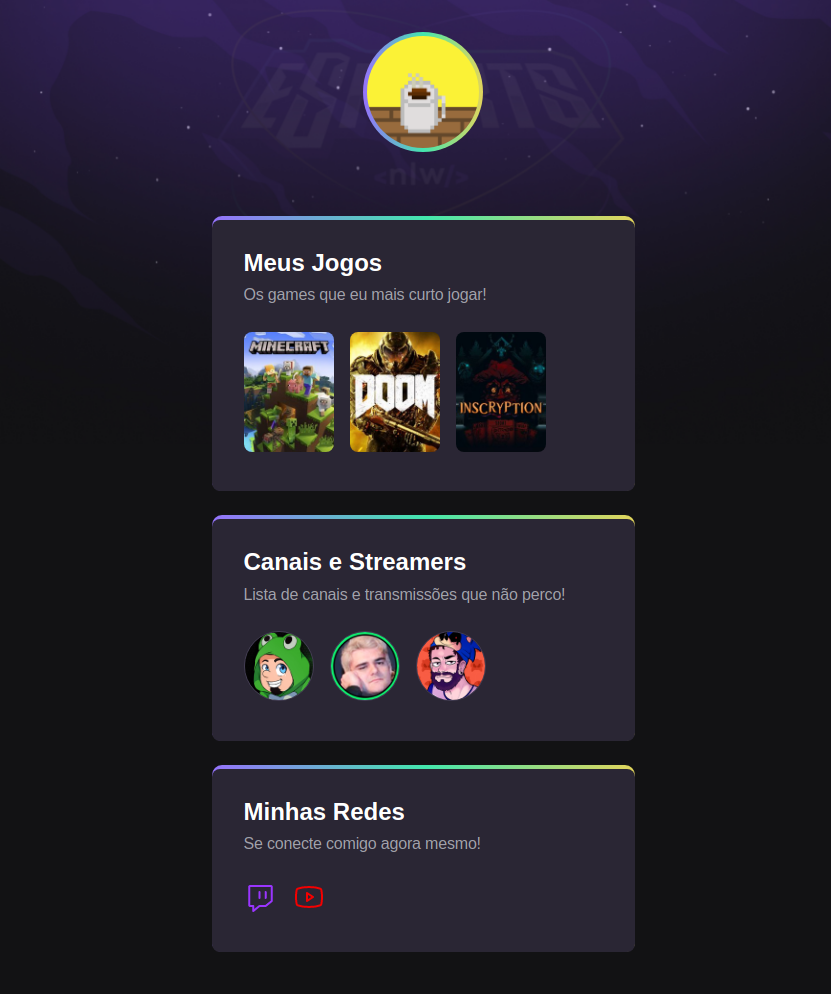
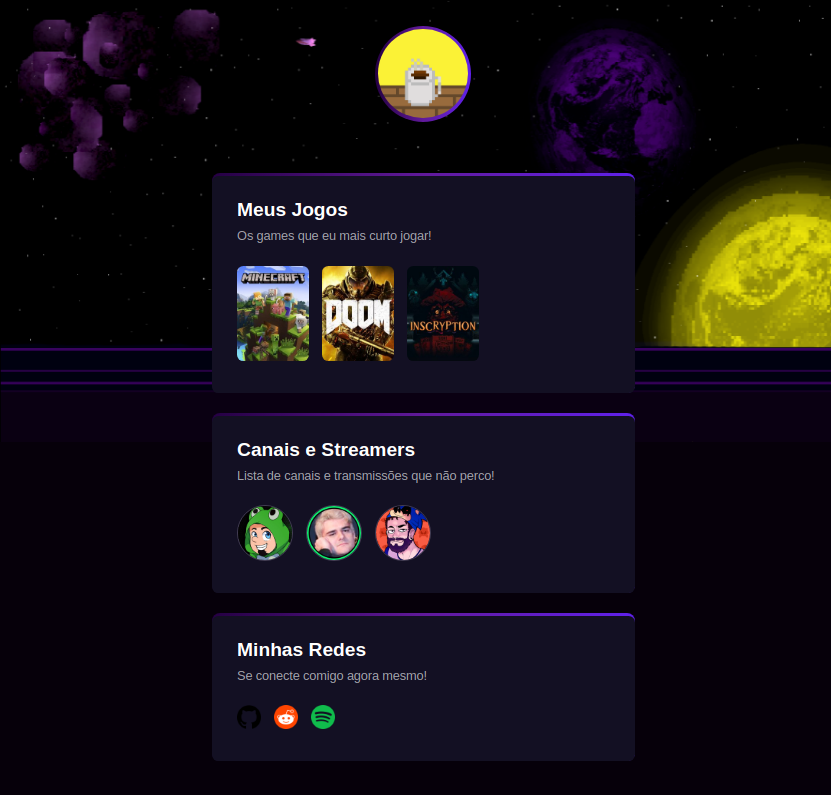
background, social networks and border-color

diff --git a/index.html b/index.html
@@ -102,22 +102,22 @@
                     <li>
                         <a
                         target="_blank"
-                        href="https://www.twitch.tv/g19g17">
-                        <svg width="33" height="32" viewBox="0 0 33 32" fill="none" xmlns="http://www.w3.org/2000/svg">
-                            <path d="M21.2824 25H15.8426C15.6011 25.0001 15.3678 25.0844 15.1852 25.2375L9.28125 30V25H6.1875C5.914 25 5.65169 24.8946 5.4583 24.7071C5.2649 24.5196 5.15625 24.2652 5.15625 24V6C5.15625 5.73478 5.2649 5.48043 5.4583 5.29289C5.65169 5.10536 5.914 5 6.1875 5H26.8125C27.086 5 27.3483 5.10536 27.5417 5.29289C27.7351 5.48043 27.8438 5.73478 27.8438 6V19.5375C27.8417 19.6832 27.8072 19.8267 27.7427 19.9583C27.6782 20.0899 27.5851 20.2065 27.4699 20.3L21.9398 24.7625C21.7572 24.9156 21.5239 24.9999 21.2824 25V25Z" stroke="#9A35FF" stroke-width="2" stroke-linecap="round" stroke-linejoin="round"/>
-                            <path d="M21.6562 11V17" stroke="#9A35FF" stroke-width="2" stroke-linecap="round" stroke-linejoin="round"/>
-                            <path d="M15.4688 11V17" stroke="#9A35FF" stroke-width="2" stroke-linecap="round" stroke-linejoin="round"/>
-                            </svg>   
+                        href="https://github.com/g19g17">
+                        <img src="assets/GithubIcon.png" alt="Icone do meu github">
                         </a>
                     </li>
                     <li>
                         <a 
                         target="_blank"
-                        href="https://www.youtube.com/channel/UCXarq1BWqDgK2KyGn2aaufw">
-                        <svg width="32" height="32" viewBox="0 0 32 32" fill="none" xmlns="http://www.w3.org/2000/svg">
-                            <path d="M20 16L14 12V20L20 16Z" stroke="#F40000" stroke-width="2" stroke-linecap="round" stroke-linejoin="round"/>
-                            <path d="M3 16C3 19.725 3.3875 21.9 3.675 23.025C3.75427 23.3302 3.90418 23.6126 4.11262 23.8493C4.32106 24.0859 4.58221 24.2703 4.875 24.3875C9.0625 25.9875 16 25.95 16 25.95C16 25.95 22.9375 25.9875 27.125 24.3875C27.4178 24.2703 27.6789 24.0859 27.8874 23.8493C28.0958 23.6126 28.2457 23.3302 28.325 23.025C28.6125 21.9 29 19.725 29 16C29 12.275 28.6125 10.1 28.325 8.975C28.2457 8.66975 28.0958 8.38741 27.8874 8.15074C27.6789 7.91407 27.4178 7.7297 27.125 7.6125C22.9375 6.0125 16 6.05 16 6.05C16 6.05 9.0625 6.0125 4.875 7.6125C4.58221 7.7297 4.32106 7.91407 4.11262 8.15074C3.90418 8.38741 3.75427 8.66975 3.675 8.975C3.3875 10.1 3 12.275 3 16Z" stroke="#F40000" stroke-width="2" stroke-linecap="round" stroke-linejoin="round"/>
-                            </svg>                            
+                        href="https://www.reddit.com/user/g19g17_H13">
+                        <img src="assets/RedditIcon.png" alt="Icone do meu reddit">                         
+                        </a>
+                    </li>
+                    <li>
+                        <a 
+                        target="_blank"
+                        href="https://open.spotify.com/user/6zgkrkgsjxpgfapad3uc294fx">
+                        <img src="assets/SpotifyIcon.png" alt="Icone do meu Spotify">                         
                         </a>
                     </li>
                     </ul>

diff --git a/style.css b/style.css
@@ -5,11 +5,11 @@
 }
 
 body {
-    background-image: url(./assets/Fundo.jpg); /*função que carrega a imagem  do background*/
+    background-image: url(./assets/Fundo2.png); /*função que carrega a imagem  do background*/
     background-position: top center; /*a imagem ficará no topo da página e no centro da página*/
     background-size: 100% auto; /*o fundo terá sua largura 100% do site e sua altura automática*/
     background-repeat: no-repeat; /*o fundo não vai repetir*/
-    background-color: #121214; /*cor do fundo com hexadecimal*/
+    background-color: #06000a; /*cor do fundo com hexadecimal*/
 }
 
 ul {
@@ -29,7 +29,7 @@ header {
 header div {
     width: 120px;
     margin: auto;
-    background-image: linear-gradient(90deg, #9572FC 0%, #43E7AD 50.52%, #E2D45C 100%);
+    background-image: linear-gradient(90deg, #250043 0%, #611a9b 50.52%, #6021ec 100%);
     
     border-radius: 50%;
     
@@ -62,13 +62,13 @@ main {
 
 section {
     color: white;
-    background-image: linear-gradient(90deg, #9572FC 0%, #43E7AD 50.52%, #E2D45C 100%);
+    background-image: linear-gradient(90deg, #250043 0%, #611a9b 50.52%, #6021ec 100%);
     padding-top: 4px;
     border-radius: 10px;
 }
 
 section div {
-    background-color: #2A2634;
+    background-color: #131023;
     padding: 32px;
     padding-top: 24px;
     border-radius: 8px;
@@ -110,6 +110,11 @@ section ul li:hover {
     width: 70px;
     border-radius: 50%;
     border: 1px solid #443E54;
+}
+
+.social-list img {
+    width: 30px;
+    border-radius: 4%;
 }
 
 /* animaton */
